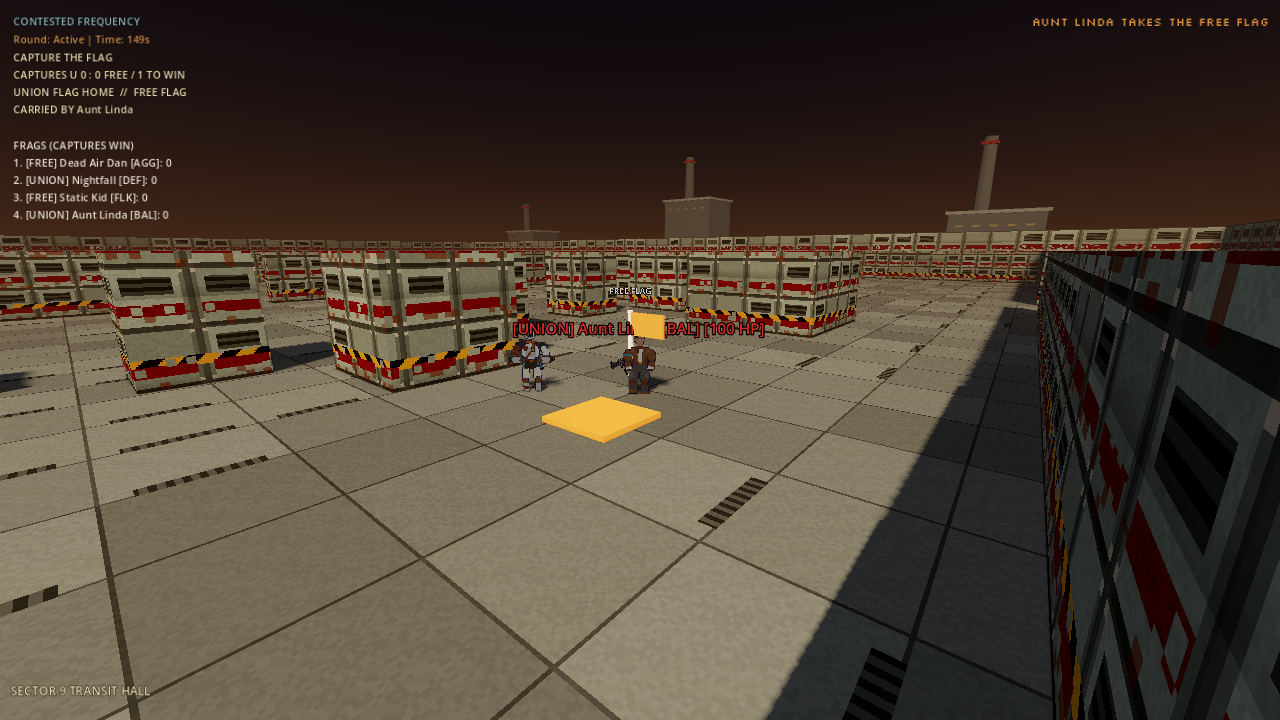
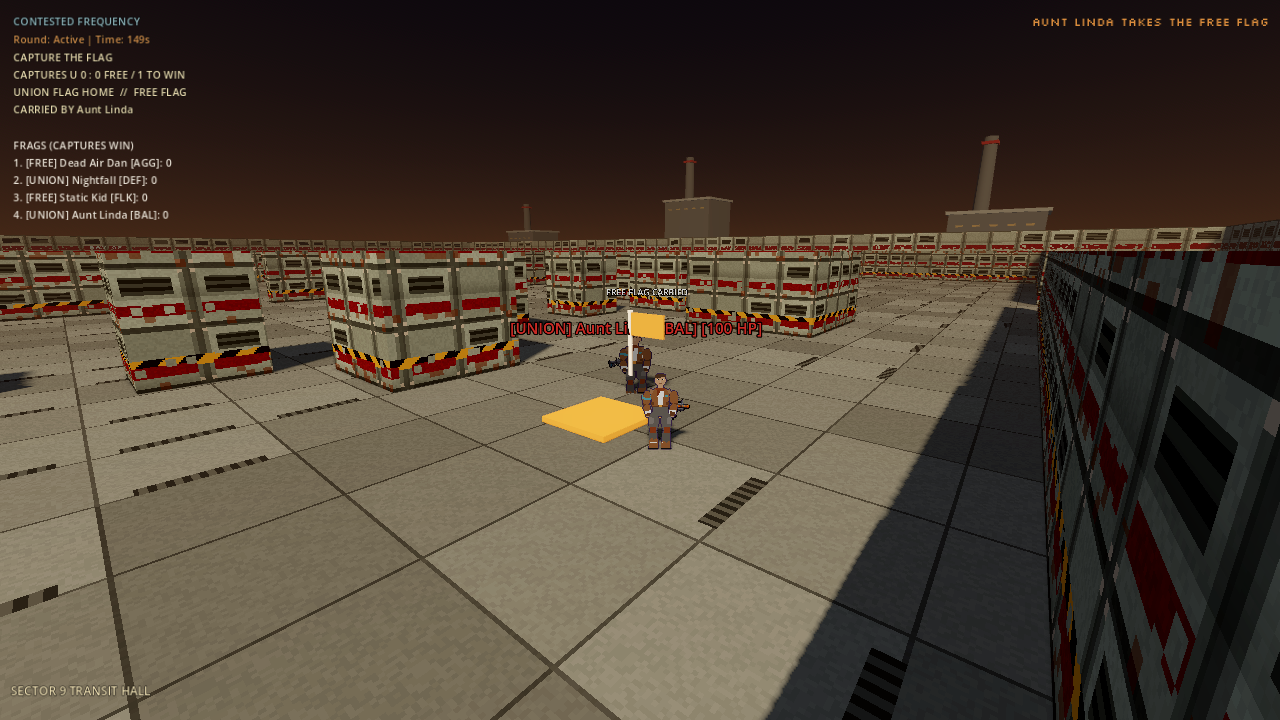
feat: name a carried Sector 9 flag in the world
A carried flag used the same world words as a flag at home. The label now says the flag is carried and sits on the cloth, while home and dropped labels stay on the pole. The refreshed Sector 9 still shows FREE FLAG CARRIED.

Changed region(s): [[0.375, 0.3972, 0.5938, 0.6417]]

diff --git a/docs/plans/capture-the-flag.md b/docs/plans/capture-the-flag.md
@@ -58,7 +58,7 @@ This is a deterministic network and presentation gate. It cannot establish that 
 - A third tour (`client/qa/ctf_leave_drop.json`) joined one Coalition fighter, walked the actual Sector 9 route around spawn cover, took the Union flag, then left to spectate. The server [dropped the Union flag at the last carried position](../screenshots/ctf_live_dropped.png) with 308 return ticks left; the HUD showed 16 seconds. After the 20-second clock, [the flag returned home](../screenshots/ctf_live_returned.png), and the return event appeared. The final four-state tour passed on the same renderer with a clean Godot log. This proves the real leave-drop and timeout presentation with zero fighters remaining, not a kill-induced drop or human match feel.
 - Final live tour command: `FRAGR_QA_MANIFEST=res://qa/ctf_live.json FRAGR_QA_MODE=ctf FRAGR_QA_MAP=4 FRAGR_QA_BOTS=4 FRAGR_QA_CAPTURE_LIMIT=1 FRAGR_QA_SEED=42 FRAGR_PORT=6783 tools/qa_tour.sh .agents/qa/ctf-live-final` from Git Bash. It passed two states with a clean Godot log. The captured manifest records `home,carried`, 0:0 and `Active`, then `home,home`, 1:0 and `Ended`. The full `tools/godot_check.sh` also passed after the tour-script change.
 - Final leave-drop tour command: `FRAGR_QA_MANIFEST=res://qa/ctf_leave_drop.json FRAGR_QA_MODE=ctf FRAGR_QA_MAP=4 FRAGR_QA_BOTS=0 FRAGR_QA_SEED=42 FRAGR_PORT=6789 tools/qa_tour.sh .agents/qa/ctf-leave-drop-timer` from Git Bash. It passed four states and checked the numeric dropped-flag return timer. The captured manifest records `home,home`, `carried,home`, `dropped,home` with 308 return ticks, then `home,home` after automatic return. The general tour keeps its fighter-presence check; only the two explicit post-leave states allow an empty roster. The full `tools/godot_check.sh` passed again after this change.
-- The first live carried image showed three pawn nameplates over one another. Spectator nameplates now measure their projected text boxes and show the carrier first, then the followed fighter, then other nearby fighters when their boxes do not collide. First-person views still hide the labels. The pure layout test covers priority, independent labels, nearby ties and stable ties. The refreshed [live carrier image](../screenshots/ctf_live_carried.png) shows one legible label at that cluster. Godot 4.7.2 camera projection and label sizing APIs were checked against the [stable Camera3D](https://docs.godotengine.org/en/stable/classes/class_camera3d.html), [Label3D](https://docs.godotengine.org/en/stable/classes/class_label3d.html) and [Font](https://docs.godotengine.org/en/stable/classes/class_font.html) documentation on 2026-09-26. The standard 32-state tour was republished and inspected. The full Godot checker passed with the scene-less harness guard, camera fallback correction and deterministic distance ties. Human readability review remains open.
+- The first live carried image showed three pawn nameplates over one another. Spectator nameplates now measure their projected text boxes and show the carrier first, then the followed fighter, then other nearby fighters when their boxes do not collide. First-person views still hide the labels. The pure layout test covers priority, independent labels, nearby ties and stable ties. A refresh of the [live carrier image](../screenshots/ctf_live_carried.png) on 2026-09-26 showed one legible label at that cluster. The 2026-09-29 refresh of that same file changes the flag words to FREE FLAG CARRIED. In that frame the carrier nameplate still crosses the cloth, and the flag words stay readable above it. Godot 4.7.2 camera projection and label sizing APIs were checked against the [stable Camera3D](https://docs.godotengine.org/en/stable/classes/class_camera3d.html), [Label3D](https://docs.godotengine.org/en/stable/classes/class_label3d.html) and [Font](https://docs.godotengine.org/en/stable/classes/class_font.html) documentation on 2026-09-26. The standard 32-state tour was republished and inspected. The full Godot checker passed with the scene-less harness guard, camera fallback correction and deterministic distance ties. Human readability review remains open.
 - A later wide spectator tour exposed labels clipped at the viewport edge. Labels now appear only when their measured projected rectangle fits fully on screen. The republished 32-state tour passed and its contact sheet and wide overview were inspected. After the bot-combat experiment was reverted, the two-state live CTF tour passed again on the accepted server path and refreshed both the carried-flag and Union 1:0 result stills. Final command: `FRAGR_QA_MANIFEST=res://qa/ctf_live.json FRAGR_QA_MODE=ctf FRAGR_QA_MAP=4 FRAGR_QA_BOTS=4 FRAGR_QA_CAPTURE_LIMIT=1 FRAGR_QA_SEED=42 FRAGR_PORT=6806 tools/qa_tour.sh .agents/qa/ctf-live-restored` from Git Bash. The full Godot checker passed after this edge adjustment.
 - A later combat-drop investigation found a specific bot controller defect: CTF intent sets `fire` for nearby enemies but marks its navigation goal noncombat, so the shared navigator clears the shot. Experimental combat-goal variants produced a seeded carrier kill and a live bot-only drop, with a Union flag showing 398 return ticks and paired drop and frag events in ignored local diagnostics. A mixed four-agent socket match still captured in 77.2 seconds with eight frags. Yet four-bot live capture tours timed out at 120 seconds under four policies: a 25-metre combat detour, a 12-metre detour with an 8-metre carrier limit, thief pursuit at 25 metres with other threats at 6 metres, and close defense at 8 metres with other threats at 4 metres. The experimental server and tour changes were reverted from this PR, and their failed visual images were not published. Next: measure carrier routes, survival and round outcomes across seeds; design explicit attacker, escort and defender priorities, then require both live combat-drop and scored-result gates before shipping bot combat. The deterministic server death-drop rule itself remains tested.
 - A further route-preserving experiment let CTF bots fire only at an enemy aligned within 0.25 radians of their selected movement heading, in weapon range and clear sight. The focused clear-sight, blocked-sight and away-facing test passed. In the live four-bot seed 42 tour, repeated frags occurred but no capture finished by either the 120-second gate or an extended 180-second gate. The firing code and temporary long tour were reverted. This rules out simply allowing shots along the current objective route as a complete fix. The next policy must distinguish carriers, attackers, escorts and defenders, then measure captures and drops together across seeds.

diff --git a/docs/plans/README.md b/docs/plans/README.md
@@ -42,7 +42,8 @@ Status words: **proposed** (a design awaiting Nick's decision; directs no work),
 | [`capture-the-flag.md`](./capture-the-flag.md) | **in flight** | First playable objective match on Sector 9, with authoritative flags, capture scoring, client and agent reads, bot routes and measured verification. |
 | [`ctf-six-a-side-pacing.md`](./ctf-six-a-side-pacing.md) | **implemented** | Five fixed-seed default-rule Sector 9 observations with twelve mixed agents; all rounds timed out below the three-capture limit, so external-agent roles need a measured follow-up. |
 | [`ctf-external-agent-roles.md`](./ctf-external-agent-roles.md) | **implemented** | One stable external-agent defender per side, with paired five-seed six-a-side observations; all rounds still reached the clock. |
-| [`ctf-rule-bot-escort.md`](./ctf-rule-bot-escort.md) | **implemented**, [draft #299](https://github.com/blisspixel/fragr/pull/299) | One defender and one escort for a Sector 9 side of at least three rule bots. A Windows twelve-bot replay stayed on the clock, with 2, 2, 2, 1 and 2 captures. |
+| [`ctf-rule-bot-escort.md`](./ctf-rule-bot-escort.md) | **shipped** ([#299](https://github.com/blisspixel/fragr/pull/299)) | One defender and one escort for a Sector 9 side of at least three rule bots. A Windows twelve-bot replay stayed on the clock, with 2, 2, 2, 1 and 2 captures. |
+| [`ctf-carried-label.md`](./ctf-carried-label.md) | **implemented**, [draft #300](https://github.com/blisspixel/fragr/pull/300) | Carried flags say they are carried, on the cloth offset. Home and dropped labels stay on the pole. The live carried still shows the new words. |
 | [`ctf-carry-episodes.md`](./ctf-carry-episodes.md) | **implemented**, [draft #295](https://github.com/blisspixel/fragr/pull/295) | Bounded per-carry progress and outcome evidence from the existing CTF observer; human and spectator acceptance remains open. |
 | [`ctf-socket-smoke.md`](./ctf-socket-smoke.md) | **implemented**, [draft #295](https://github.com/blisspixel/fragr/pull/295) | Controlled real-socket flag capture and asserted contested combat are separate CI gates; exact-head Linux CI passed, human match remains. |
 | [`websocket-delayed-egress.md`](./websocket-delayed-egress.md) | **implemented**, [draft #296](https://github.com/blisspixel/fragr/pull/296) | Nine $0 Windows-to-WSL moving-combat captures at 0, 40 and 80 ms server-egress delay, plus a prediction bootstrap fix; two-machine and human gates remain. |

diff --git a/docs/plans/ctf-carried-label.md b/docs/plans/ctf-carried-label.md
@@ -1,0 +1,31 @@
+# Carried flag world label
+
+**Status:** implemented, [draft #300](https://github.com/blisspixel/fragr/pull/300), 2026-09-29. The presentation follow-up to the [rule-bot escort](ctf-rule-bot-escort.md).
+
+## Goal and why
+
+Before this change, a carried flag used the same world words as a flag at home. The previous live carrier still showed "FREE FLAG" over the runner while the HUD already said who was carrying it. A spectator should be able to tell those states apart on the flag itself.
+
+## Scope
+
+- Home stays `UNION FLAG` and `FREE FLAG`. Dropped stays `UNION FLAG DOWN` and `FREE FLAG DOWN`.
+- Carried uses `UNION FLAG CARRIED` and `FREE FLAG CARRIED` in `client/i18n/match.en.po`.
+- The carried label moves to the cloth's horizontal offset, local x `0.66`, and keeps the existing height so the words stay above the fabric. Home and dropped labels stay on the pole.
+- The world label does not add the carrier's callsign. The HUD already names them.
+- No flag rule, bot, wire, or score change.
+
+## Verification and spend
+
+`test_flag_state.gd` checks home, carried, and dropped words, and that the carried label is on the cloth offset while the others stay on the pole. Refresh `docs/screenshots/ctf_live_carried.png` from the existing outcome-gated tour and inspect the words. The README's four stills do not show this label.
+
+External spend is $0.
+
+## Result
+
+`test_flag_state.gd` passed on Godot 4.7.2-stable: home, carried, and dropped words, cloth offset `0.66` while carried, pole offset after a drop, and no callsign on the world label.
+
+The outcome-gated tour was `FRAGR_QA_MANIFEST=res://qa/ctf_live.json FRAGR_QA_MODE=ctf FRAGR_QA_MAP=4 FRAGR_QA_BOTS=4 FRAGR_QA_CAPTURE_LIMIT=1 FRAGR_QA_SEED=42 FRAGR_PORT=6831 tools/qa_tour.sh .agents/qa/ctf-carried-label` from Git Bash. The server log recorded Sector 9 and `Capture limit reached`. The carried frame shows `FREE FLAG CARRIED` on the flag. The Godot log has no script error. That frame is [docs/screenshots/ctf_live_carried.png](../screenshots/ctf_live_carried.png). The carrier nameplate still crosses the cloth, and the new words stay readable above it. The result frame is the ended round, so its home words are unchanged and that file stays.
+
+## Success
+
+The three flag states use three different world labels, and the refreshed carried still shows the carried words. A human and spectator session still has to judge the label in motion.

diff --git a/docs/plans/ctf-rule-bot-escort.md b/docs/plans/ctf-rule-bot-escort.md
@@ -1,6 +1,6 @@
 # Sector 9 rule-bot escort
 
-**Status:** implemented, [draft #299](https://github.com/blisspixel/fragr/pull/299), 2026-09-29. The measured follow-up to the [external-agent defender roles](ctf-external-agent-roles.md).
+**Status:** shipped, [#299](https://github.com/blisspixel/fragr/pull/299), 2026-09-29. The measured follow-up to the [external-agent defender roles](ctf-external-agent-roles.md).
 
 ## Goal and why
 
@@ -42,4 +42,4 @@ The Linux full suite on the first draft changed seed 40 to 2 captures, 4 frags a
 
 ## Success
 
-The role tests pass, the two-bot survey still passes, and the twelve-bot table is recorded honestly. A bot capture is not a human or spectator verdict. The carried flag's world label still uses the home words. That label is the next presentation change, and it is not part of this policy.
+The role tests pass, the two-bot survey still passes, and the twelve-bot table is recorded honestly. A bot capture is not a human or spectator verdict. The carried world label is the following presentation change ([ctf-carried-label.md](ctf-carried-label.md)).

diff --git a/docs/ROADMAP.md b/docs/ROADMAP.md
@@ -232,7 +232,9 @@ agents. Server rule bots already finish a two-a-side capture. A twelve-bot
 Windows replay, seeds 40 through 44, scored 2, 2, 2, 1 and 2 captures and used
 the full clock on every seed. Linux seed 40 stayed on that clock at 2 captures.
 Frag totals are not a cross-platform lock
-([plan](plans/ctf-rule-bot-escort.md)). Two-bot goals are unchanged. A controlled socket
+([plan](plans/ctf-rule-bot-escort.md)). The carried world label now says the
+flag is carried, offset onto the cloth
+([plan](plans/ctf-carried-label.md)). Two-bot goals are unchanged. A controlled socket
 gate proves a complete capture, while contested matches test combat and flag
 replication. Neither gate establishes human or spectator clarity. See the
 [carry evidence](plans/ctf-carry-episodes.md) and
